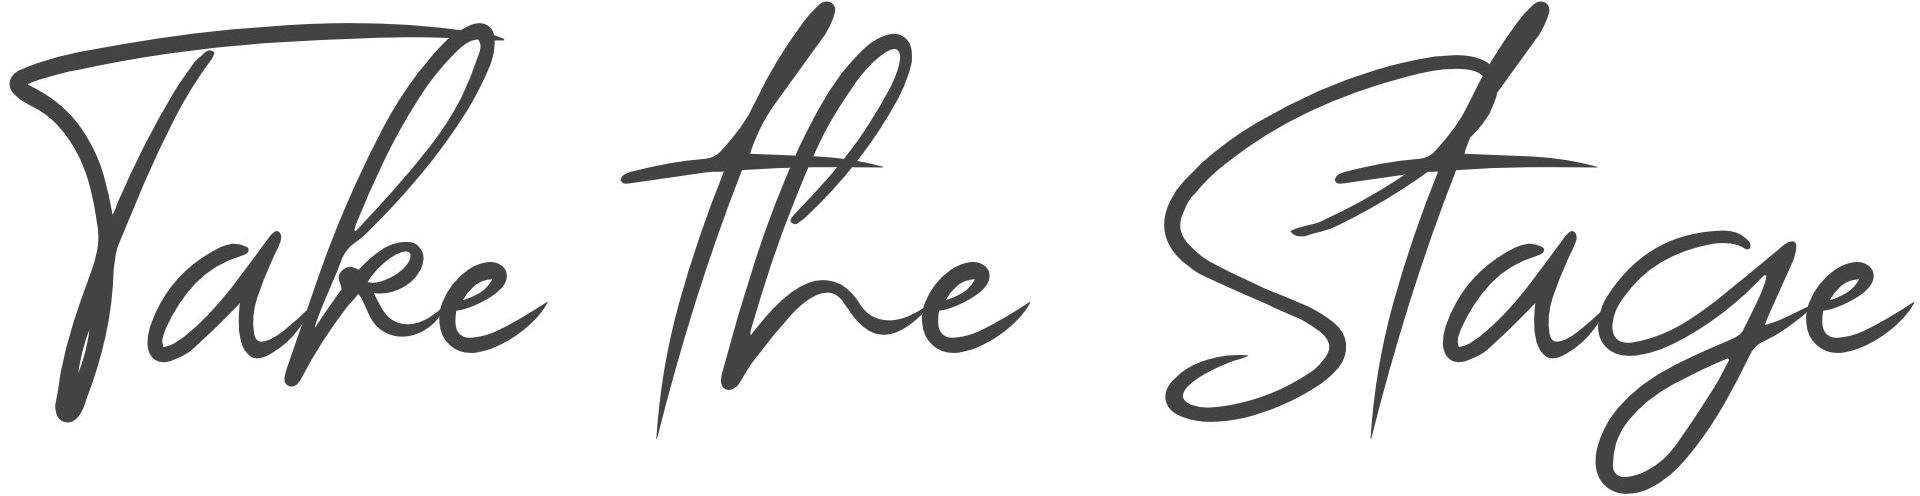
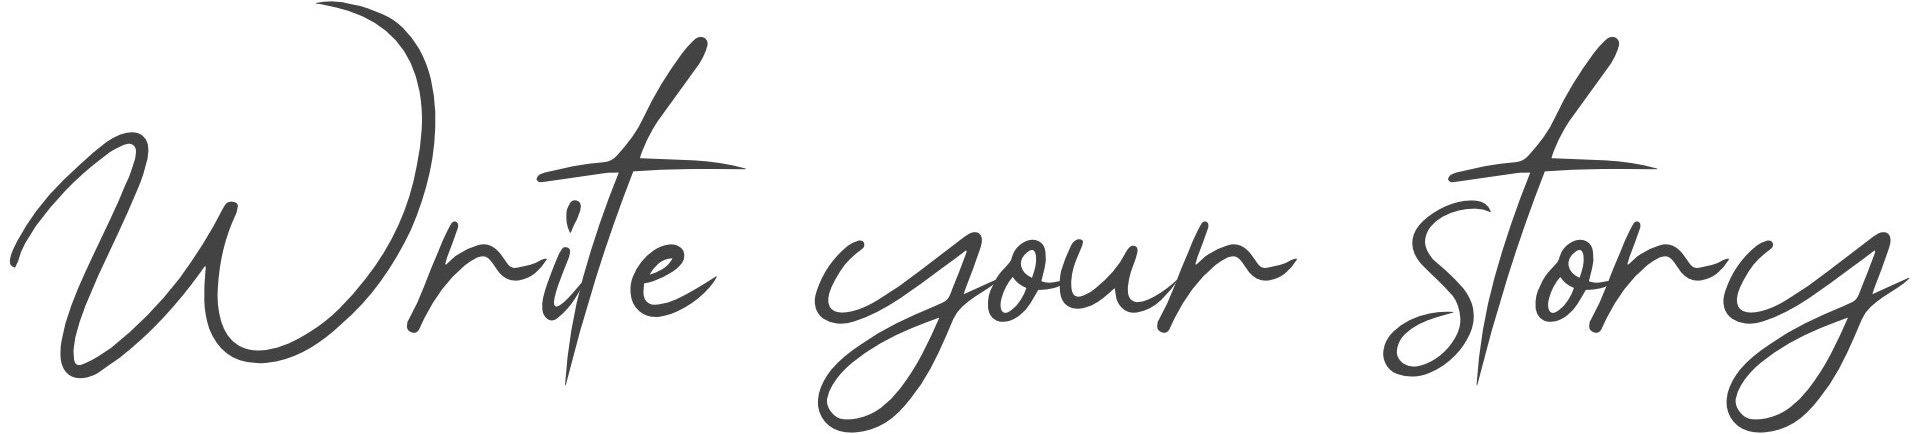
New slogan

Changed region(s): [[0.0, 0.0, 1.0, 1.0]]

diff --git a/home.html b/home.html
@@ -29,7 +29,7 @@
         <br>
         <br>
         <br>
-        <img src="./2Videos/Thumbnails/Slogan.jpeg" alt="" style="width: min(90vw, 450px); margin: 0 0 -1em 0;">
+        <img src="./2Videos/Thumbnails/Slogan.jpeg" alt="" style="width: min(90vw, 450px); margin: 0 0 -0.5em 0;">
         <br>
         <ul>
             <li><b>12 people.  2 weeks.</b></li>
